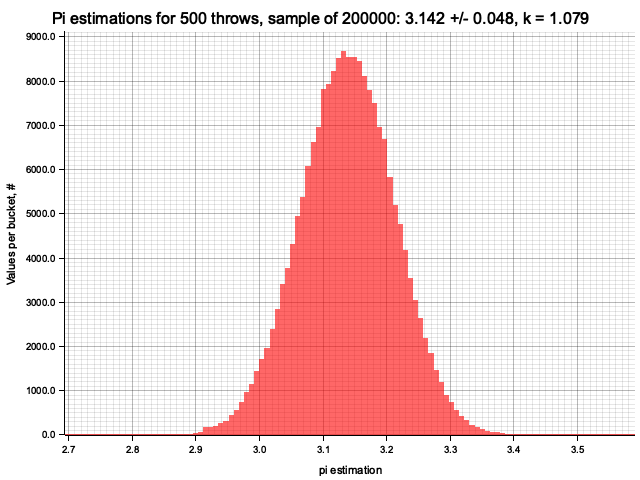
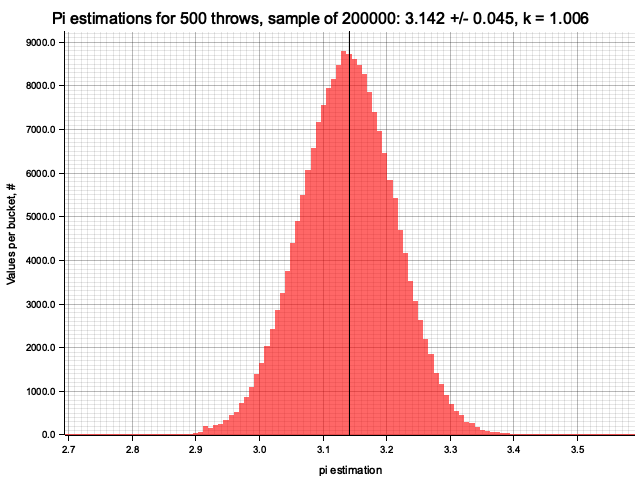
added ability to plot vertical line on histograms

Changed region(s): [[0.0312, 0.2188, 1.0, 0.875], [0.0312, 0.0312, 1.0, 0.2188], [0.5312, 0.3438, 0.5625, 0.375]]

diff --git a/src/plot.rs b/src/plot.rs
@@ -12,9 +12,12 @@ pub fn plot_histogram(
     x_caption: &str,
     filename: &str,
     xlim: XLim,
+    vertical_line: Option<f64>,
 ) -> Result<(), Box<dyn std::error::Error>> {
     let hist_axis = hist.axes().as_tuple().0.to_owned();
     let hist_max_count = hist.values().fold(f64::NEG_INFINITY, |a, &b| a.max(b));
+    let y_min = 0.0;
+    let y_max = hist_max_count * 1.05;
 
     let fig = BitMapBackend::new(filename, (640, 480)).into_drawing_area();
 
@@ -30,7 +33,7 @@ pub fn plot_histogram(
                 XLim::FromData => hist_axis.low().to_owned()..hist_axis.high().to_owned(),
                 XLim::Range(low, high) => low..high,
             },
-            0.0..(hist_max_count * 1.05),
+            y_min..y_max,
         )?;
 
     chart
@@ -56,6 +59,11 @@ pub fn plot_histogram(
             RED.mix(0.6),
         ))
         .unwrap();
+    if let Some(value) = vertical_line {
+        chart
+            .draw_series(LineSeries::new([(value, y_min), (value, y_max)], BLACK))
+            .unwrap();
+    }
 
     fig.present()?;
     println!("Histogram has been saved to {}", filename);

diff --git a/src/ex3.rs b/src/ex3.rs
@@ -135,6 +135,7 @@ fn estimate_pi_error(rng: &mut ThreadRng) {
             "pi estimation",
             &format!("out/ex3/pi-est-distribution-{}-throws.png", total_throws),
             XLim::FromData,
+            Some(PI64),
         )
         .expect("Failed to plot histogram");
     }

diff --git a/src/ex1.rs b/src/ex1.rs
@@ -97,6 +97,7 @@ impl MLCG {
                 "u32 value",
                 &format!("out/ex1/{}-2^{:.0}.png", name, log2_size),
                 XLim::FromData,
+                None,
             )
             .expect("Failed to plot histogram");
         }

diff --git a/src/ex2.rs b/src/ex2.rs
@@ -18,6 +18,7 @@ fn plot_cauchy_dist() {
         "x",
         "out/ex2/cauchy.png",
         XLim::Range(-10.0, 10.0),
+        Some(0.0),
     )
     .expect("Failed to plot histogram");
 }
